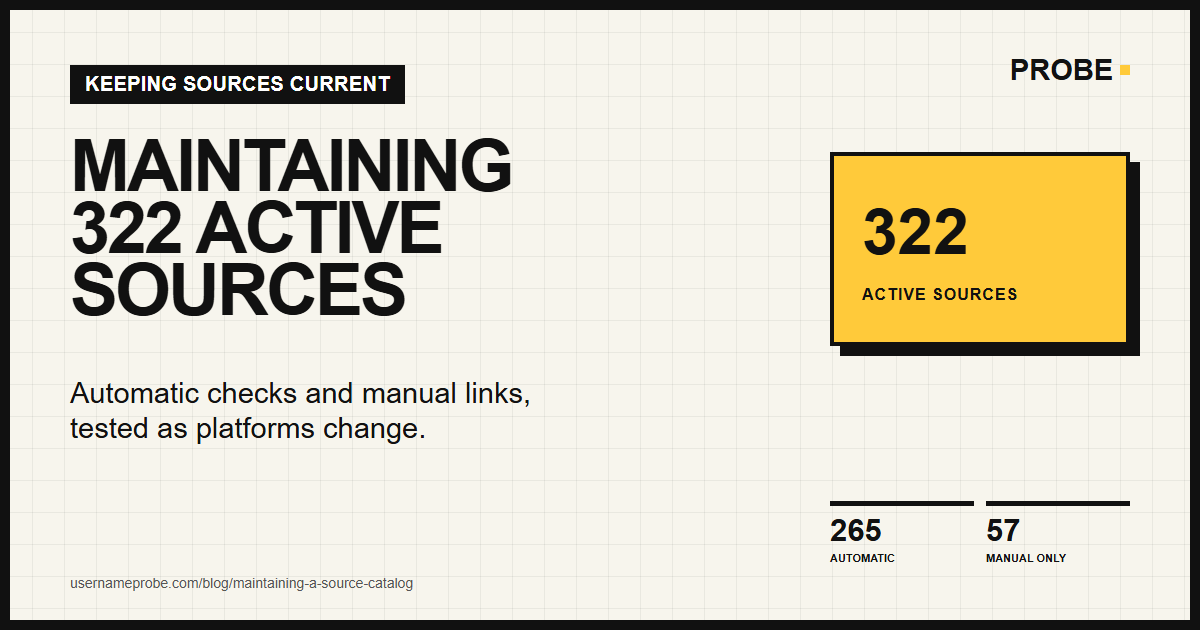
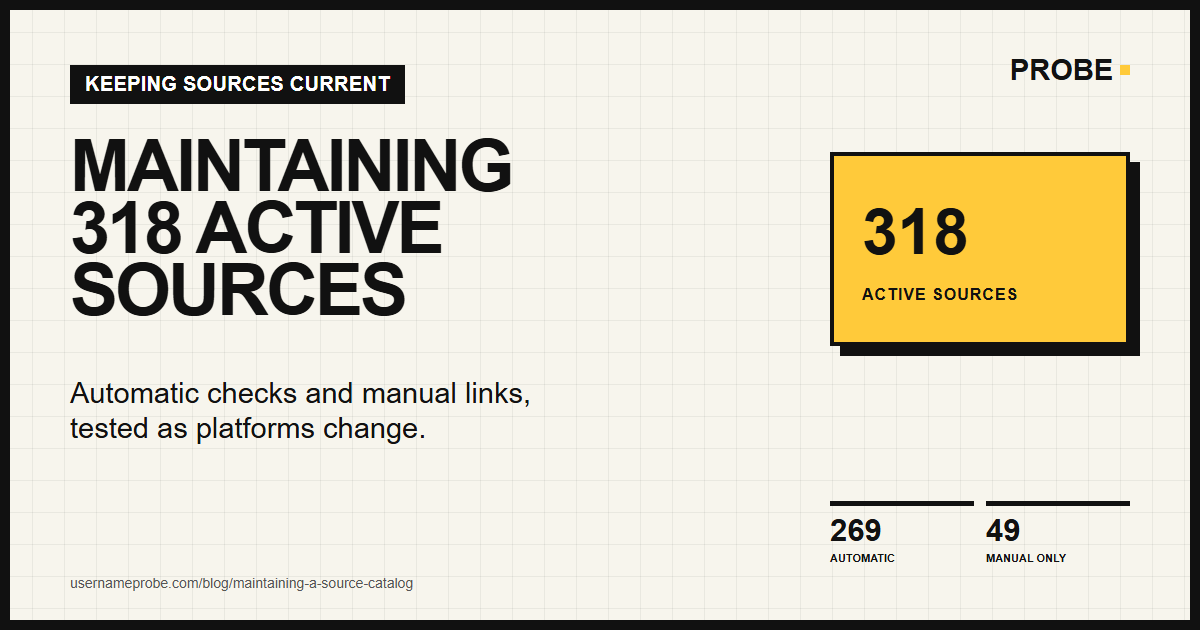
Re-render current-count social cards (318 active: 269 automatic, 49 manual)

diff --git a/social/render-cards.js b/social/render-cards.js
@@ -19,9 +19,9 @@ const cards = [
     slug: 'probe-blog', kicker: 'FIELD NOTES', accent: STYLE.lime,
     title: 'THE<br>PROBE<br>LOG',
     deck: 'How PROBE measures results, handles<br>uncertainty, and keeps sources useful.',
-    metric: '322', metricLabel: 'ACTIVE SOURCES',
+    metric: '318', metricLabel: 'ACTIVE SOURCES',
     foot: 'usernameprobe.com/blog',
-    stats: [['265', 'AUTOMATIC'], ['57', 'MANUAL ONLY']],
+    stats: [['269', 'AUTOMATIC'], ['49', 'MANUAL ONLY']],
   },
   {
     slug: 'probe-roadmap', kicker: 'BUILD IN PUBLIC', accent: STYLE.yellow,
@@ -65,11 +65,11 @@ const cards = [
   },
   {
     slug: 'maintaining-a-source-catalog', kicker: 'KEEPING SOURCES CURRENT', accent: STYLE.yellow,
-    title: 'MAINTAINING<br>322 ACTIVE<br>SOURCES',
+    title: 'MAINTAINING<br>318 ACTIVE<br>SOURCES',
     deck: 'Automatic checks and manual links,<br>tested as platforms change.',
-    metric: '322', metricLabel: 'ACTIVE SOURCES',
+    metric: '318', metricLabel: 'ACTIVE SOURCES',
     foot: 'usernameprobe.com/blog/maintaining-a-source-catalog',
-    stats: [['265', 'AUTOMATIC'], ['57', 'MANUAL ONLY']],
+    stats: [['269', 'AUTOMATIC'], ['49', 'MANUAL ONLY']],
   },
   {
     slug: 'what-your-username-doesnt-hide', kicker: 'PRIVACY', accent: STYLE.purple,
